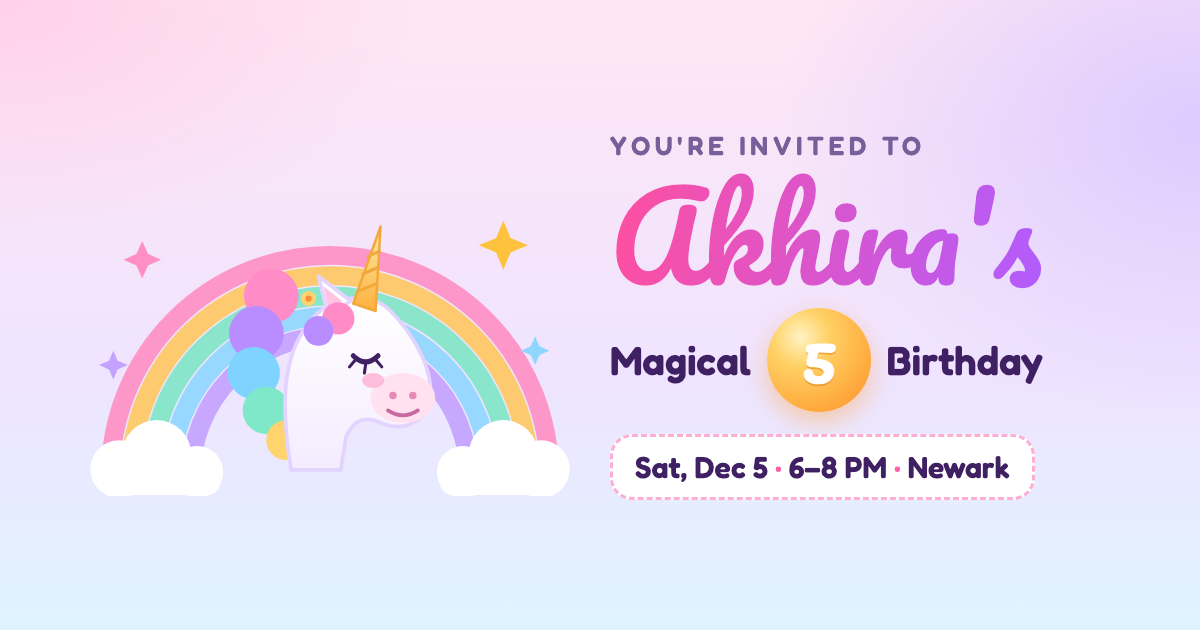
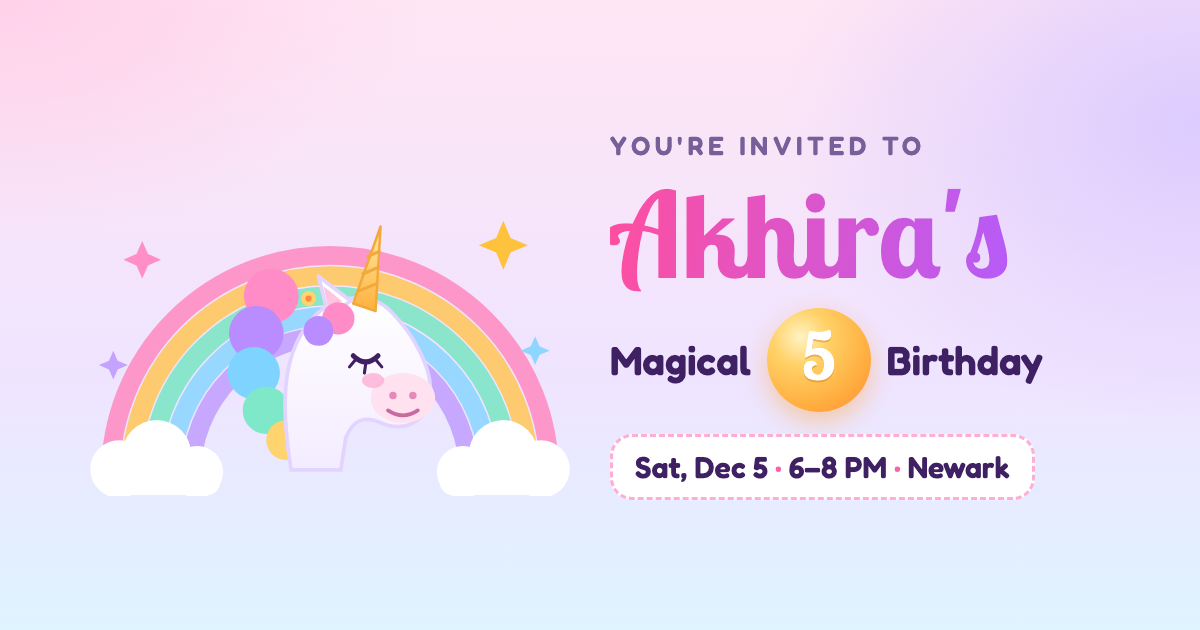
Switch Akhira invite headings to Lobster Two; re-render link preview

Changed region(s): [[0.4933, 0.2714, 0.8633, 0.4825], [0.6475, 0.5127, 0.7092, 0.6333]]

diff --git a/akhira-5th-birthday/index.html b/akhira-5th-birthday/index.html
@@ -25,7 +25,7 @@
 
 <link rel="preconnect" href="https://fonts.googleapis.com">
 <link rel="preconnect" href="https://fonts.gstatic.com" crossorigin>
-<link href="https://fonts.googleapis.com/css2?family=Fredoka:wght@400;500;600;700&family=Pacifico&display=swap" rel="stylesheet">
+<link href="https://fonts.googleapis.com/css2?family=Fredoka:wght@400;500;600;700&family=Lobster+Two:wght@700&display=swap" rel="stylesheet">
 <style>
   :root {
     color-scheme: light;
@@ -83,19 +83,19 @@
 
   .kicker { margin: 4px 0 0; font-weight: 600; font-size: 14px; letter-spacing: .18em; text-transform: uppercase; color: var(--ink-soft); }
   h1 {
-    margin: 0; font-family: "Pacifico", cursive; font-weight: 400;
+    margin: 0; font-family: "Lobster Two", cursive; font-weight: 700;
     font-size: clamp(56px, 17vw, 88px); line-height: 1.2;
     color: var(--pink);
     background: linear-gradient(95deg, #ff4f9f 10%, #b05cff 90%);
     -webkit-background-clip: text; background-clip: text; -webkit-text-fill-color: transparent;
-    padding: 0 8px; /* keep Pacifico swashes from clipping */
+    padding: 0 8px; /* keep script swashes from clipping */
   }
   .turning { display: flex; align-items: center; justify-content: center; gap: 12px; margin: 2px 0 6px; }
   .turning .word { font-size: clamp(22px, 6vw, 28px); font-weight: 600; }
   .five {
     position: relative; width: 92px; height: 92px; border-radius: 50%; flex: none;
     display: inline-flex; align-items: center; justify-content: center;
-    font-family: "Pacifico", cursive; font-size: 58px; line-height: 1; color: #fff; padding-bottom: 8px;
+    font-family: "Lobster Two", cursive; font-weight: 700; font-size: 58px; line-height: 1; color: #fff; padding-bottom: 8px;
     background: radial-gradient(circle at 32% 28%, #fff3c4 0, #ffd166 28%, #ffab3d 70%, #ff8a3d 100%);
     box-shadow: 0 10px 24px rgba(255, 166, 61, .45), inset 0 -5px 0 rgba(0,0,0,.08);
     text-shadow: 0 2px 0 rgba(200, 100, 0, .35);
@@ -140,7 +140,7 @@
     margin-top: 18px; background: var(--card); border-radius: 28px; border: 2px solid #fff;
     box-shadow: var(--shadow); padding: 22px 20px; scroll-margin-top: 16px;
   }
-  h2 { margin: 0 0 4px; font-family: "Pacifico", cursive; font-weight: 400; font-size: 28px; color: var(--purple); text-align: center; }
+  h2 { margin: 0 0 4px; font-family: "Lobster Two", cursive; font-weight: 700; font-size: 28px; color: var(--purple); text-align: center; }
   .card > .lead { margin: 0 0 16px; text-align: center; color: var(--ink-soft); }
 
   /* RSVP form */
@@ -183,7 +183,7 @@
   .hp { position: absolute; left: -9999px; width: 1px; height: 1px; opacity: 0; }
   .form-msg { margin: 0; min-height: 1.2em; text-align: center; font-size: 15px; color: #c0306f; }
   .thanks { text-align: center; }
-  .thanks .big { font-family: "Pacifico", cursive; font-size: 30px; color: var(--pink); }
+  .thanks .big { font-family: "Lobster Two", cursive; font-weight: 700; font-size: 30px; color: var(--pink); }
   .thanks p { margin: 6px 0 16px; font-size: 17px; }
 
   /* Getting there */

diff --git a/akhira-5th-birthday/host/index.html b/akhira-5th-birthday/host/index.html
@@ -5,13 +5,13 @@
 <meta name="viewport" content="width=device-width, initial-scale=1">
 <meta name="robots" content="noindex, nofollow">
 <title>Akhira RSVPs</title>
-<link href="https://fonts.googleapis.com/css2?family=Fredoka:wght@400;500;600;700&family=Pacifico&display=swap" rel="stylesheet">
+<link href="https://fonts.googleapis.com/css2?family=Fredoka:wght@400;500;600;700&family=Lobster+Two:wght@700&display=swap" rel="stylesheet">
 <style>
   :root { --ink: #4a2d6b; --soft: #7a5f99; --pink: #ff6fb5; --purple: #9b6bff; --line: rgba(155,107,255,.22); --bg: #f7f2ff; }
   * { box-sizing: border-box; }
   body { margin: 0; font-family: "Fredoka", system-ui, sans-serif; color: var(--ink); background: var(--bg); }
   main { max-width: 900px; margin: 0 auto; padding: 28px 16px 48px; }
-  h1 { font-family: "Pacifico", cursive; font-weight: 400; font-size: 34px; margin: 0 0 4px; color: var(--purple); }
+  h1 { font-family: "Lobster Two", cursive; font-weight: 700; font-size: 34px; margin: 0 0 4px; color: var(--purple); }
   .sub { color: var(--soft); margin: 0 0 20px; }
   .panel { background: #fff; border: 2px solid var(--line); border-radius: 20px; padding: 18px; }
   form { display: grid; gap: 12px; max-width: 360px; }
